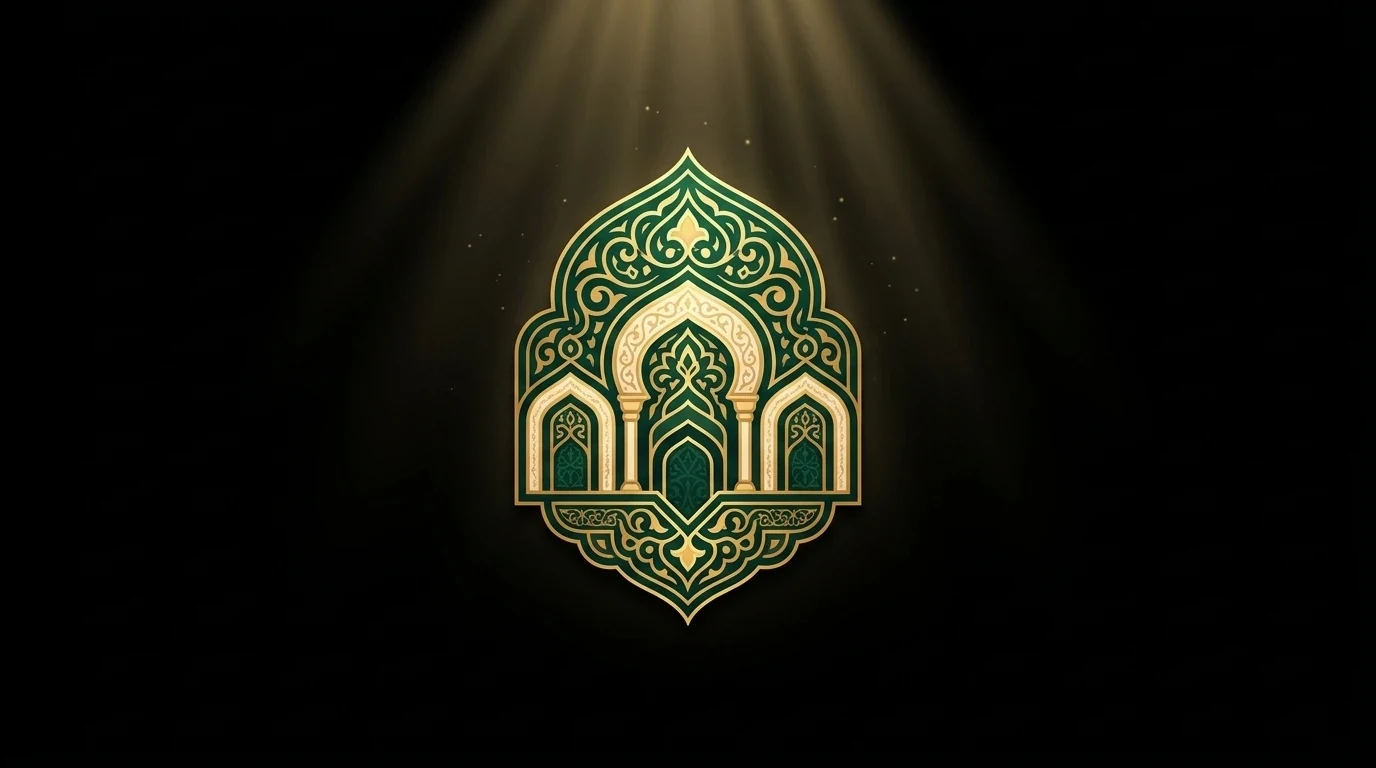
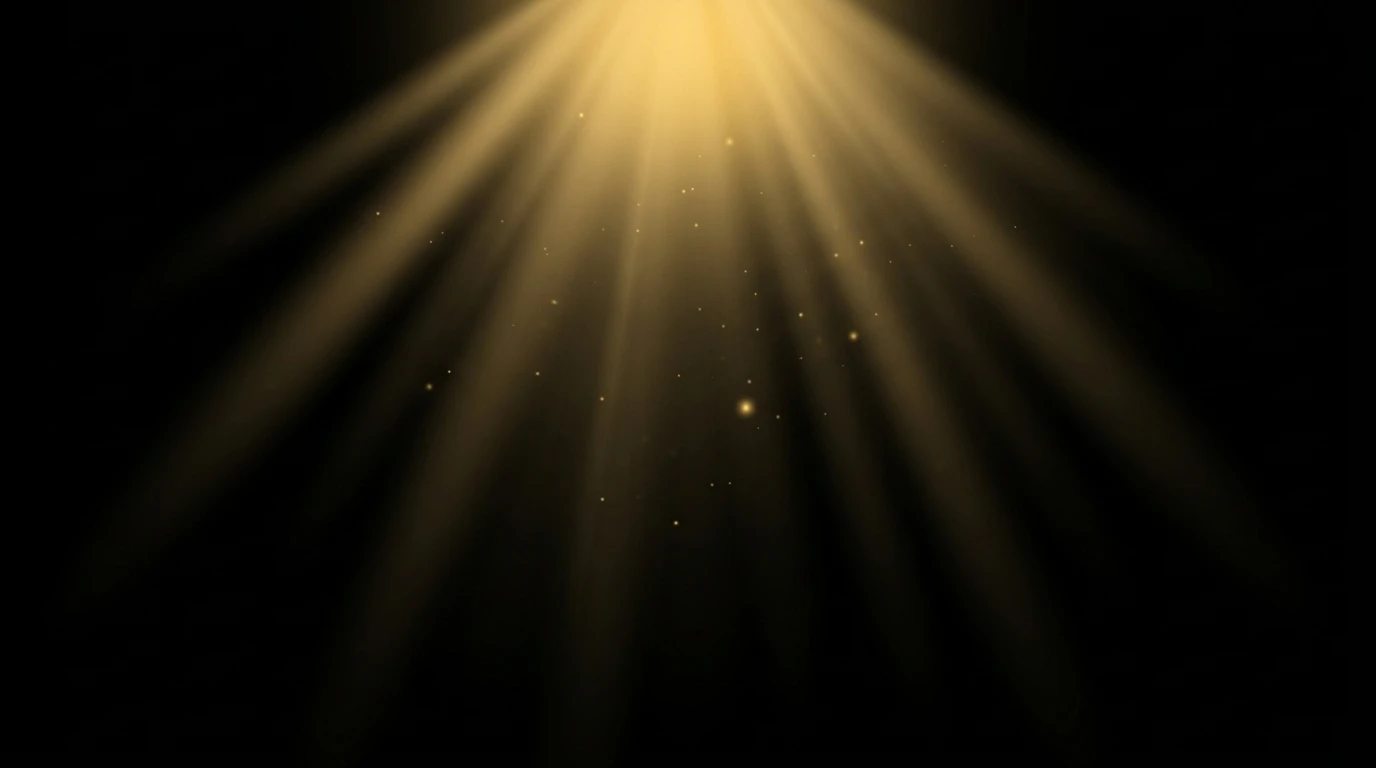
feat(assets): import asset batch 3 (set complete) + current app screenshots for redesign
Claude-Session: https://claude.ai/code/session_017kS8iWTAB9NToK36mobtFe

Changed region(s): [[0.1562, 0.0, 0.8438, 0.8125]]

diff --git a/docs/production/ASSET-CATALOGO.md b/docs/production/ASSET-CATALOGO.md
@@ -9,7 +9,7 @@ Conversione: `scripts/assets/key-magenta.py` + `scripts/assets/mapping-batch1.cs
 | mascot/ | mascot-parts | ⚠ parti troppo piccole (sostituite dai file sotto) |
 | mascot/ | mascot-arm-left, mascot-arm-right | ✅ batch 2 |
 | mascot/ | mascot-mic, mascot-quran, mascot-encourage | ✅ batch 2 |
-| mascot/ | mascot-body (senza braccia) | ❌ batch 2 scartato: la lanterna aveva un **volto** → rifare (batch 3, prompt 1) |
+| mascot/ | mascot-body (senza braccia) | ✅ batch 3 (senza volto) |
 | icons/ | izhar, idgham, iqlab, ikhfa, ghunna, madd, qalqala, tafkhim, sifat | ✅ pronti |
 | icons/ | mushaf, sharh, listen, record, compare, nutq, trophy, quiz, target, video | ✅ pronti |
 | illustrations/ | letter-emerging, shield-tongue, lahn-jali, lahn-khafi, book-light, book-light-rays, medal-lesson | ✅ pronti |
@@ -18,8 +18,8 @@ Conversione: `scripts/assets/key-magenta.py` + `scripts/assets/mapping-batch1.cs
 | backgrounds/ | bg-stage, bg-listen, bg-quiz, bg-celebrate, bg-intro | ✅ pronti |
 | effects/ | star-gold, confetti-set | ✅ pronti |
 | effects/ | sparkle, glow | ✅ batch 2 (su nero: usare `mix-blend-mode: screen`) |
-| effects/ | light-rays | ⚠ batch 2 contiene anche un emblema al centro → rifare (batch 3, prompt 3) |
-| youtube/ | thumbnail-bg | ❌ batch 2 scartato: personaggio con un **volto** → rifare (batch 3, prompt 2) |
+| effects/ | light-rays | ✅ batch 3 (solo raggi, su nero: `mix-blend-mode: screen`) |
+| youtube/ | thumbnail-bg | ✅ batch 3 (senza volto, spazio a sinistra per il titolo) |
 
 ## Batch 2 — `prompt-sequenziali-2.txt` (11 prompt, da ZAPI FLOW)
 
@@ -38,7 +38,9 @@ Conversione: `scripts/assets/key-magenta.py` + `scripts/assets/mapping-batch1.cs
 Riferimenti per Flow: REF-A = `reference/icon-library.webp`, REF-B = `../../src/assets/images/guided/backgrounds/bg-stage.webp`,
 REF-C = `reference/lesson-screen-mockup.webp`, REF-D = `mascot-sheet` (personaggio).
 
-## Batch 3: `prompt-sequenziali-3.txt` (3 prompt)
+## Batch 3: `prompt-sequenziali-3.txt` (3 prompt) ✅ ricevuto e importato
+
+**Set di asset completo: nessun elemento mancante.**
 
 1. mascot-body: senza braccia e **senza volto**
 2. youtube-thumbnail-bg: personaggio **senza volto**

diff --git a/docs/production/screenshots-app/LEGGIMI.md b/docs/production/screenshots-app/LEGGIMI.md
@@ -1,0 +1,20 @@
+# Schermate dell'app (stato al 20/11/2026)
+
+Landscape da telefono, 844×390 a 2× (1688×780). Da usare come base per il redesign.
+
+| File | Schermata |
+|---|---|
+| 01-splash | Avvio |
+| 03-corsi | Percorsi / corsi (المسارات التعليمية) |
+| 04-menu-laterale-aperto | Menu laterale aperto |
+| 05-unita-del-corso | Unità di un corso |
+| 06-lezioni-dell-unita | Lezioni di un'unità |
+| 07-lezione-video | Lezione video (YouTube incorporato: qui «non disponibile» perché offline) |
+| 08-lezione-lettura | Lezione di lettura (stile pagina del mushaf) |
+| 09-lezione-pratica-recitazione | Pratica di recitazione con microfono |
+| 10-lezione-test / 10b | Test di valutazione, prima e dopo aver scelto una risposta |
+| 11-classifica | Classifica |
+| 12-sfide-giornaliere | Sfide giornaliere |
+| 13-traguardi | Traguardi e badge |
+| 14-in-arrivo | Pagina «in arrivo» (Corano, pratica, certificati) |
+| 15–21 | Nuova lezione guidata animata (tema «ornate», v2) |
